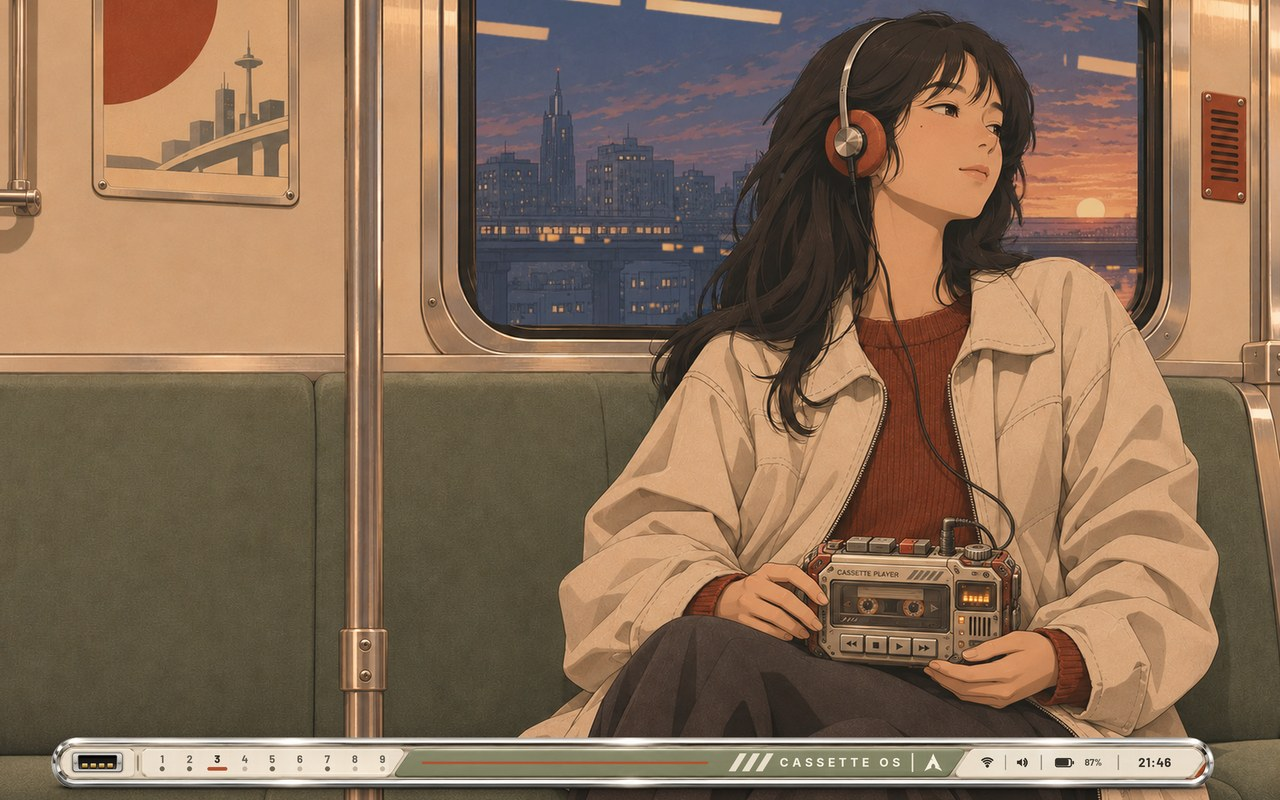
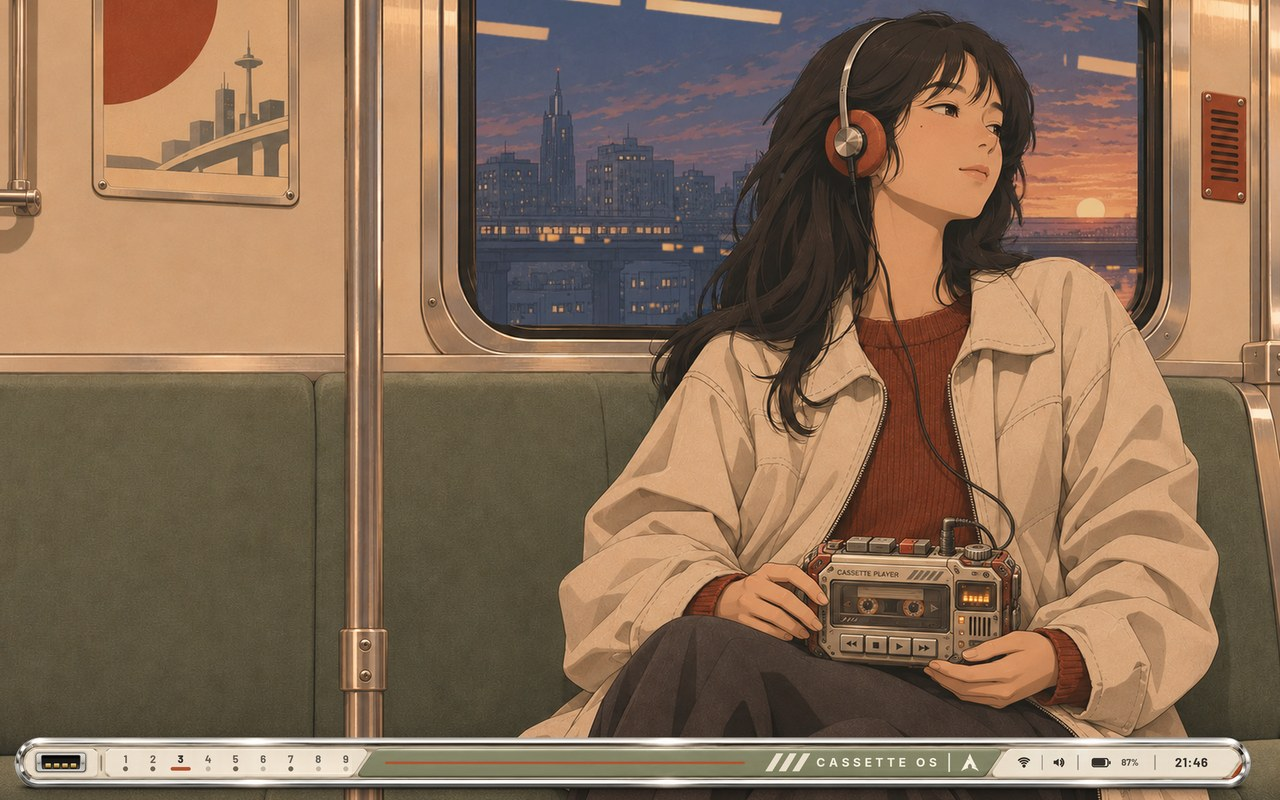
Retro Futurism: windows in the mock-up's frame; the taskbar as wide as the frames, hiding while windows are open
Each window gets art/WindowFrame.png round it (a BorderImage, corners kept,
sides stretched), drawn by the shell from Hyprland's window list, the one
in use bright and the others dimmed, a shaded gap inside the rim. Hyprland
draws no border and leaves 45 px for it. The taskbar's ends line up with a
full window's frame; it lies over the windows, hides while any are open and
slides up when the pointer reaches the bottom edge.

Claude-Session: https://claude.ai/code/session_015VvhJ21Y4bjWDEYJNoFXMP

diff --git a/themes/retro-futurism/home/.config/quickshell/modules/Backdrop.qml b/themes/retro-futurism/home/.config/quickshell/modules/Backdrop.qml
@@ -158,26 +158,6 @@ PanelWindow {
         }
     }
 
-    // ---- the frame lines
-    Corners {
-        x: 27; y: Theme.barTop + 27
-        width: win.width - 54
-        height: win.height - Theme.barTop - Theme.barBottom - 54
-        arm: 34; weight: 3
-    }
-
-    // ---- the focusing mark, where no window lies over it
-    Item {
-        id: focusMark
-        width: 132; height: 108
-        x: Math.round((win.width - width) / 2)
-        y: Math.round((win.height - height) / 2)
-        visible: !Hypr.windows.some(w => w.x < x + width && w.x + w.w > x && w.y < y + height && w.y + w.h > y)
-        Corners { anchors.fill: parent; arm: 26; weight: 3 }
-        Rectangle { anchors.centerIn: parent; width: 20; height: 2; color: Theme.ink }
-        Rectangle { anchors.centerIn: parent; width: 2; height: 20; color: Theme.ink }
-    }
-
     // ---- the right-hand column
     Column {
         id: column
@@ -192,33 +172,50 @@ PanelWindow {
         Component.onCompleted: Panels.mailY = y + height + spacing
     }
 
-    // ---- captions and focus marks
+    // ---- the window frames: one round each window on the workspace in view
+    // (the mock-up's frame, its corners kept and its sides stretched), the
+    // rim a few px out from the window, the space between shaded. The one in
+    // use is bright; the others are dimmed. They follow the windows as
+    // Hyprland reports them (services/Hypr.qml), and step aside for a
+    // fullscreen window.
     Item {
+        id: frames
         anchors.fill: parent
         visible: !Hypr.fullscreen
         Repeater {
             model: Hypr.windows
             Item {
-                id: mark
+                id: framed
                 required property var modelData
-                required property int index
-                x: modelData.x; y: modelData.y
-                width: modelData.w; height: modelData.h
-                Label {
-                    x: 8
-                    y: parent.height + 8
-                    width: parent.width - 16
-                    font.pixelSize: 15
-                    tracking: 1.4
-                    color: mark.modelData.active ? Theme.ink : Theme.dim
-                    text: "#" + Hypr.activeId + (mark.index + 1) + "   " + Apps.label(mark.modelData.cls)
+                readonly property real out: Theme.frameRim + Theme.frameGap      // window edge to the frame's outer edge
+                x: modelData.x - out; y: modelData.y - out
+                width: modelData.w + 2 * out; height: modelData.h + 2 * out
+                Behavior on x { NumberAnimation { duration: 160; easing.type: Easing.OutCubic } }
+                Behavior on y { NumberAnimation { duration: 160; easing.type: Easing.OutCubic } }
+                Behavior on width { NumberAnimation { duration: 160; easing.type: Easing.OutCubic } }
+                Behavior on height { NumberAnimation { duration: 160; easing.type: Easing.OutCubic } }
+
+                // the gap between rim and window: a soft dark bed
+                Rectangle {
+                    x: Theme.frameRim - 2; y: x
+                    width: parent.width - 2 * x; height: parent.height - 2 * x
+                    radius: 10
+                    color: "#000000"
+                    opacity: 0.32
                 }
-                Corners {
-                    visible: mark.modelData.active && Hypr.windows.length > 1
-                    x: -7; y: -7
-                    width: parent.width + 14; height: parent.height + 14
-                    arm: 16; weight: 2
-                    color: Theme.accent
+                // the frame; drawn at the picture's own size, then scaled
+                BorderImage {
+                    readonly property real k: Theme.frameScale
+                    x: -2 * k; y: -2 * k                   // (2 px of air round the rim in the picture)
+                    width: (framed.width + 4 * k) / k; height: (framed.height + 4 * k) / k
+                    scale: k; transformOrigin: Item.TopLeft
+                    source: Quickshell.shellPath("assets/frame.png")
+                    border { left: 56; top: 56; right: 56; bottom: 56 }
+                    horizontalTileMode: BorderImage.Stretch
+                    verticalTileMode: BorderImage.Stretch
+                    smooth: true
+                    opacity: framed.modelData.active ? 1 : 0.62
+                    Behavior on opacity { NumberAnimation { duration: 180 } }
                 }
             }
         }

diff --git a/themes/retro-futurism/home/.config/quickshell/modules/Taskbar.qml b/themes/retro-futurism/home/.config/quickshell/modules/Taskbar.qml
@@ -26,14 +26,37 @@ PanelWindow {
 
     anchors { bottom: true; left: true; right: true }
     implicitHeight: Math.ceil(128 * s)
-    exclusiveZone: Math.ceil((128 - 8) * s)
+    // it lies over the windows, never pushing them: with windows open it
+    // hides below the screen's edge, and comes up when the pointer goes
+    // down to the edge (or a panel of its is open)
+    exclusionMode: ExclusionMode.Ignore
     WlrLayershell.namespace: "retro-futurism-bar"
     color: "transparent"
+
+    readonly property bool hasWindows: Hypr.windows.length > 0 || Hypr.fullscreen
+    property bool hovered: false
+    readonly property bool shown: !hasWindows || hovered || linger.running
+        || Panels.open === "launcher" || Panels.open === "power"
+    Timer { id: linger; interval: 700 }               // a moment after the pointer leaves
+    onHoveredChanged: if (!hovered) linger.restart()
+
+    // where the pointer counts: the whole bar while it is up, else a thin
+    // strip along the screen's bottom edge
+    mask: Region { item: bar.shown ? body : edgeStrip }
+    Item { id: edgeStrip; anchors.bottom: parent.bottom; width: parent.width; height: 3 }
+    HoverHandler { onHoveredChanged: bar.hovered = hovered }
+
+    // everything below slides as one
+    Item {
+        id: body
+        width: parent.width; height: parent.height
+        y: bar.shown ? 0 : height + 4
+        Behavior on y { NumberAnimation { duration: 260; easing.type: Easing.OutCubic } }
 
     // ---- the mock-up's pixels to the screen. The pieces are 128 tall (the
     // mock-up's y 312 to 440; the tube itself 320 to 418), the left one
     // from x 20 to 800, the right one from 900 to 2152.
-    readonly property real side: Math.round(width * 0.04)     // as in the reference: 4 % each side
+    readonly property real side: Theme.frameMargin         // its ends line up with a window's frame
     readonly property real s: Math.min(Theme.taskbarScale, (width - 2 * side) / 2032)
     readonly property real u: s / 0.6                      // for things sized by eye at 0.6
     readonly property real leftX: side - 15 * s            // (the piece has 15 px of air before the tube)
@@ -347,5 +370,6 @@ PanelWindow {
         font.weight: Font.Bold
         font.letterSpacing: 1 * bar.s
         font.features: { "tnum": 1 }
+    }
     }
 }

diff --git a/themes/retro-futurism/home/.config/quickshell/theme/Theme.qml b/themes/retro-futurism/home/.config/quickshell/theme/Theme.qml
@@ -20,6 +20,14 @@ Singleton {
     readonly property int barTop: 0                   // (no bar at the top)
     readonly property real taskbarScale: 0.78          // the taskbar: the mock-up at this size
     readonly property int barBottom: 100              // ... and its height (128 x 0.78)
+    // ---- the window frames (assets/frame.png, art/WindowFrame.png). These
+    // and Hyprland's gaps (hypr/theme/look.lua) go together:
+    //   gaps_out = frameMargin + frameRim + frameGap   (22 + 17 + 6 = 45)
+    //   gaps_in  = frameRim + frameGap + 6             (29: 12 px between frames)
+    readonly property real frameScale: 0.72            // the mock-up's frame at this size
+    readonly property int frameMargin: 22              // screen edge to frame, and to the taskbar's ends
+    readonly property int frameRim: 17                 // the rim's width on screen (24 x 0.72)
+    readonly property int frameGap: 6                  // inside the rim, before the window
     readonly property int edge: 34                     // panels' distance from the screen edge
     readonly property int columnWidth: 364             // the right column
 

diff --git a/themes/retro-futurism/tools/make_frame.py b/themes/retro-futurism/tools/make_frame.py
@@ -1,0 +1,22 @@
+#!/usr/bin/env python3
+# The window frame, from the mock-up (art/WindowFrame.png): its rim cut out
+# of the white (inside and outside made clear), for a BorderImage that
+# stretches the sides and keeps the corners.
+#   python3 tools/make_frame.py art/WindowFrame.png home/.config/quickshell/assets/frame.png
+# In the result: the rim's outer edge 2 px in from the picture's edge, the
+# rim 24 px wide, the corners within 56 px.
+import sys
+from PIL import Image, ImageDraw
+import numpy as np
+src, out = sys.argv[1], sys.argv[2]
+im = Image.open(src).convert('RGB')
+X0, Y0, X1, Y1 = 18, 18, 1568, 973
+S = 4
+m = Image.new('L', ((X1 - X0) * S, (Y1 - Y0) * S), 0); d = ImageDraw.Draw(m)
+d.rounded_rectangle([(20 - X0) * S, (20 - Y0) * S, (1566 - X0) * S, (971 - Y0) * S], 26 * S, fill=255)
+d.rounded_rectangle([(44 - X0) * S, (44.5 - Y0) * S, (1542 - X0) * S, (946.5 - Y0) * S], 12 * S, fill=0)
+m = m.resize((X1 - X0, Y1 - Y0), Image.LANCZOS)
+rgb = im.crop((X0, Y0, X1, Y1))
+rgb.putalpha(m)
+rgb.save(out, optimize=True)
+print(rgb.size)

diff --git a/themes/retro-futurism/README.md b/themes/retro-futurism/README.md
@@ -47,6 +47,18 @@ Gadgets in steel, cream and sage with e-ink screens.
   figures (workspaces, battery, time) are in Barlow (SIL Open Font License,
   shipped with the theme).
 
+- **Window frames** (`modules/Backdrop.qml`, `tools/make_frame.py`): every
+  window sits in the mock-up's sage-and-chrome frame (`art/WindowFrame.png`,
+  its corners kept and its sides stretched, so it fits any size and follows
+  the window as it opens, moves and resizes). Windows fill nearly the whole
+  screen, 45 px in; the frame lies in that margin with a small shaded gap
+  inside it. The window in use has the bright frame, the others are
+  dimmed. Hyprland draws no border of its own (`hypr/theme/look.lua`; its
+  gaps go with the frame values in `theme/Theme.qml`).
+- The taskbar runs the frames' full width (its middle band stretches), lies
+  over the windows, and hides below the screen while any are open: take the
+  pointer down to the bottom edge and it slides up.
+
 Everything else (launcher, panels, power menu) is still Viewfinder's,
 copied into this box, until each part gets its own design from the mock-ups
 in [`art/`](art/).
